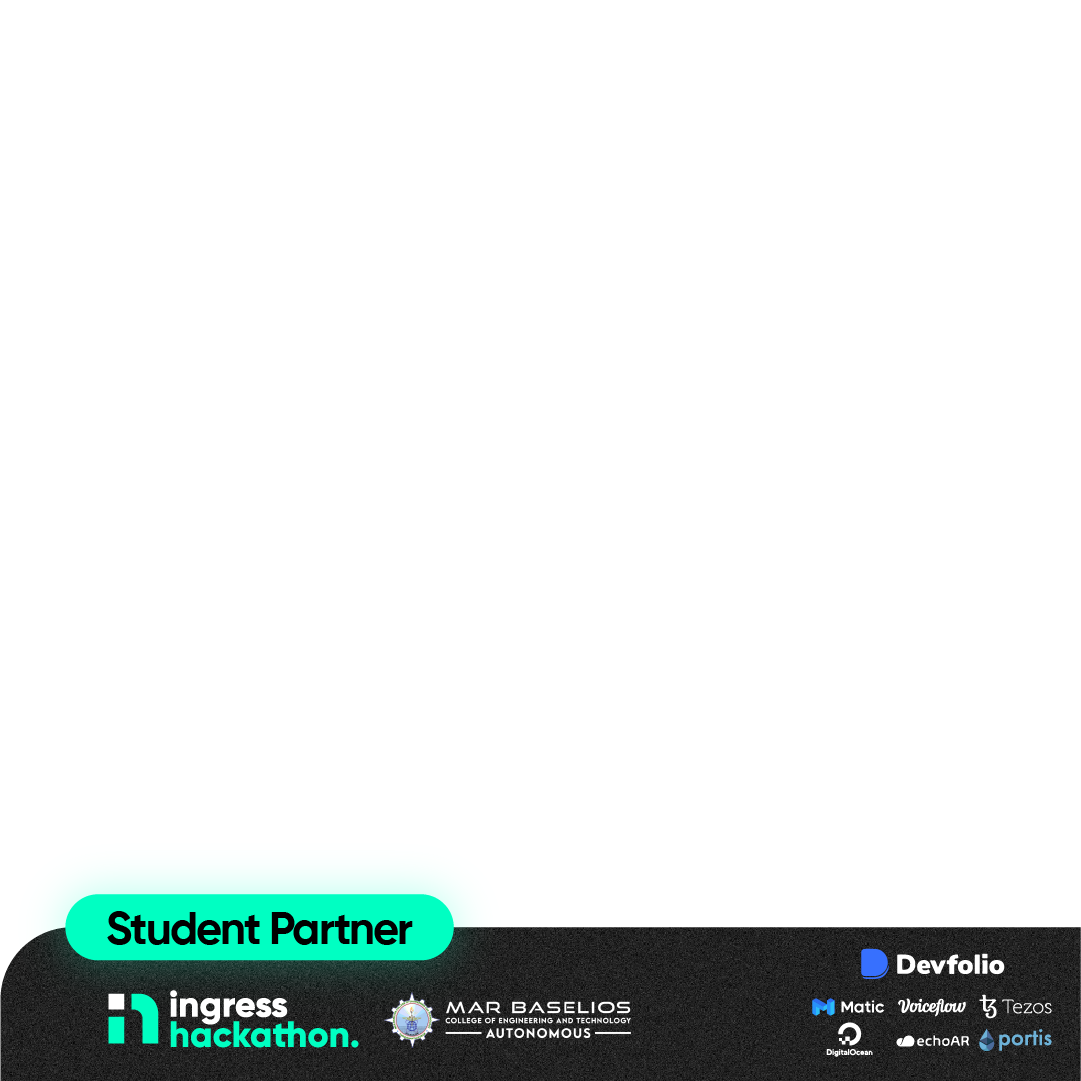
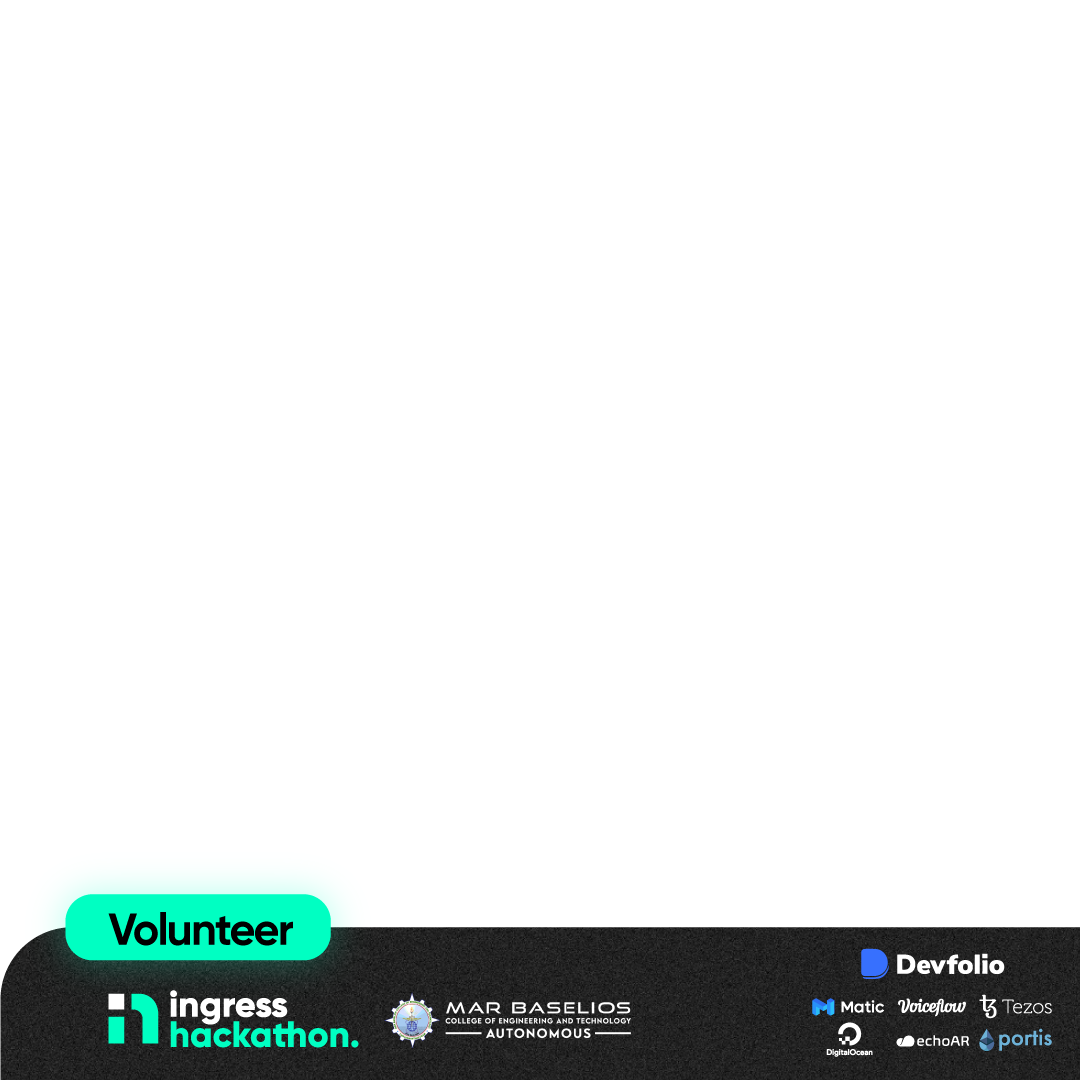
Volunteer

diff --git a/src/components/BadgeModule.js b/src/components/BadgeModule.js
@@ -157,7 +157,7 @@ const BadgeModule = () => {
                 pauseOnHover
                 style={{ width: "200px", margin: "auto" }}
             />
-            <header>Ingress Student Partner Badge Maker</header>
+            <header>Ingress Volunteer Badge Maker</header>
 
             <div className="main-container">
                 <div className="input-panel">
